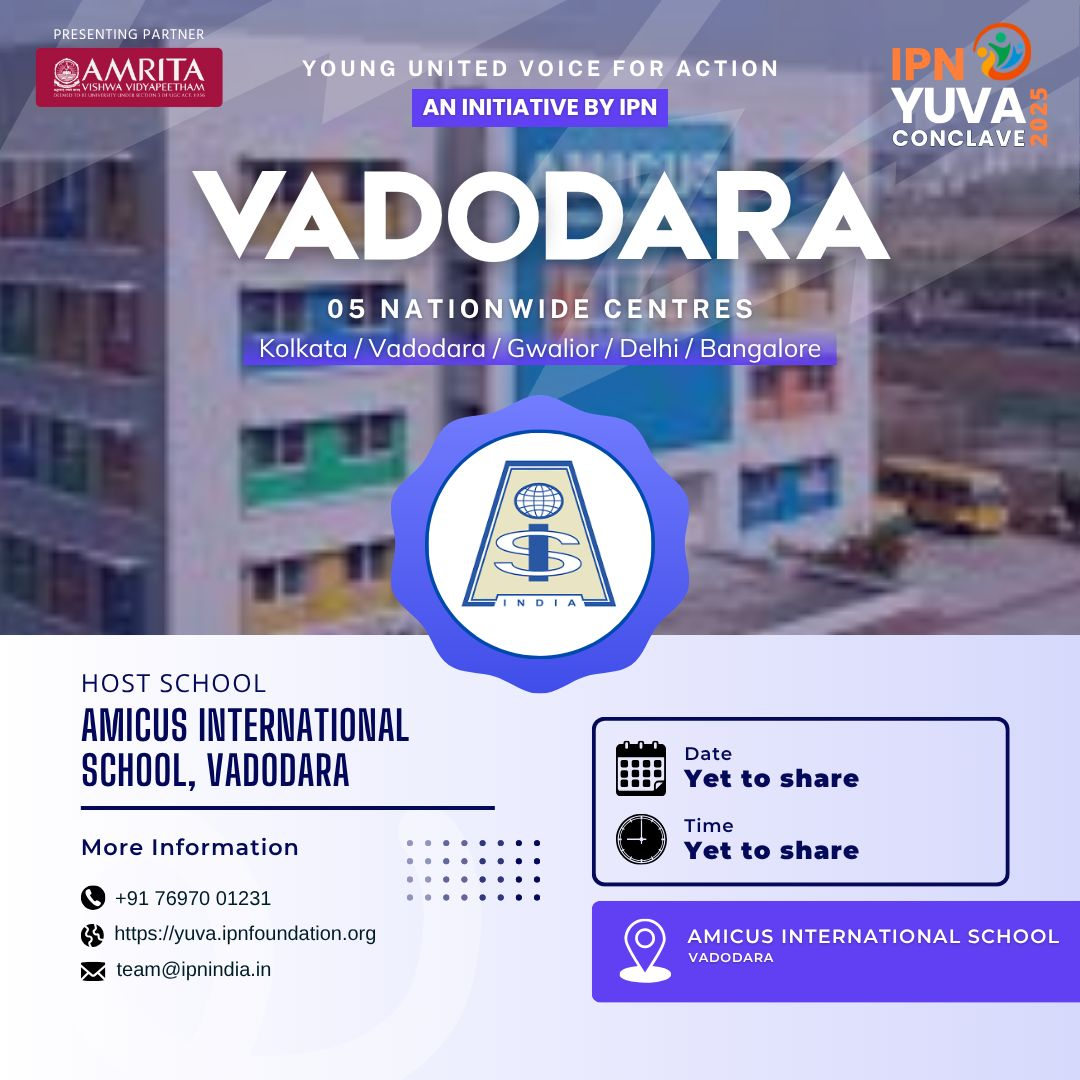
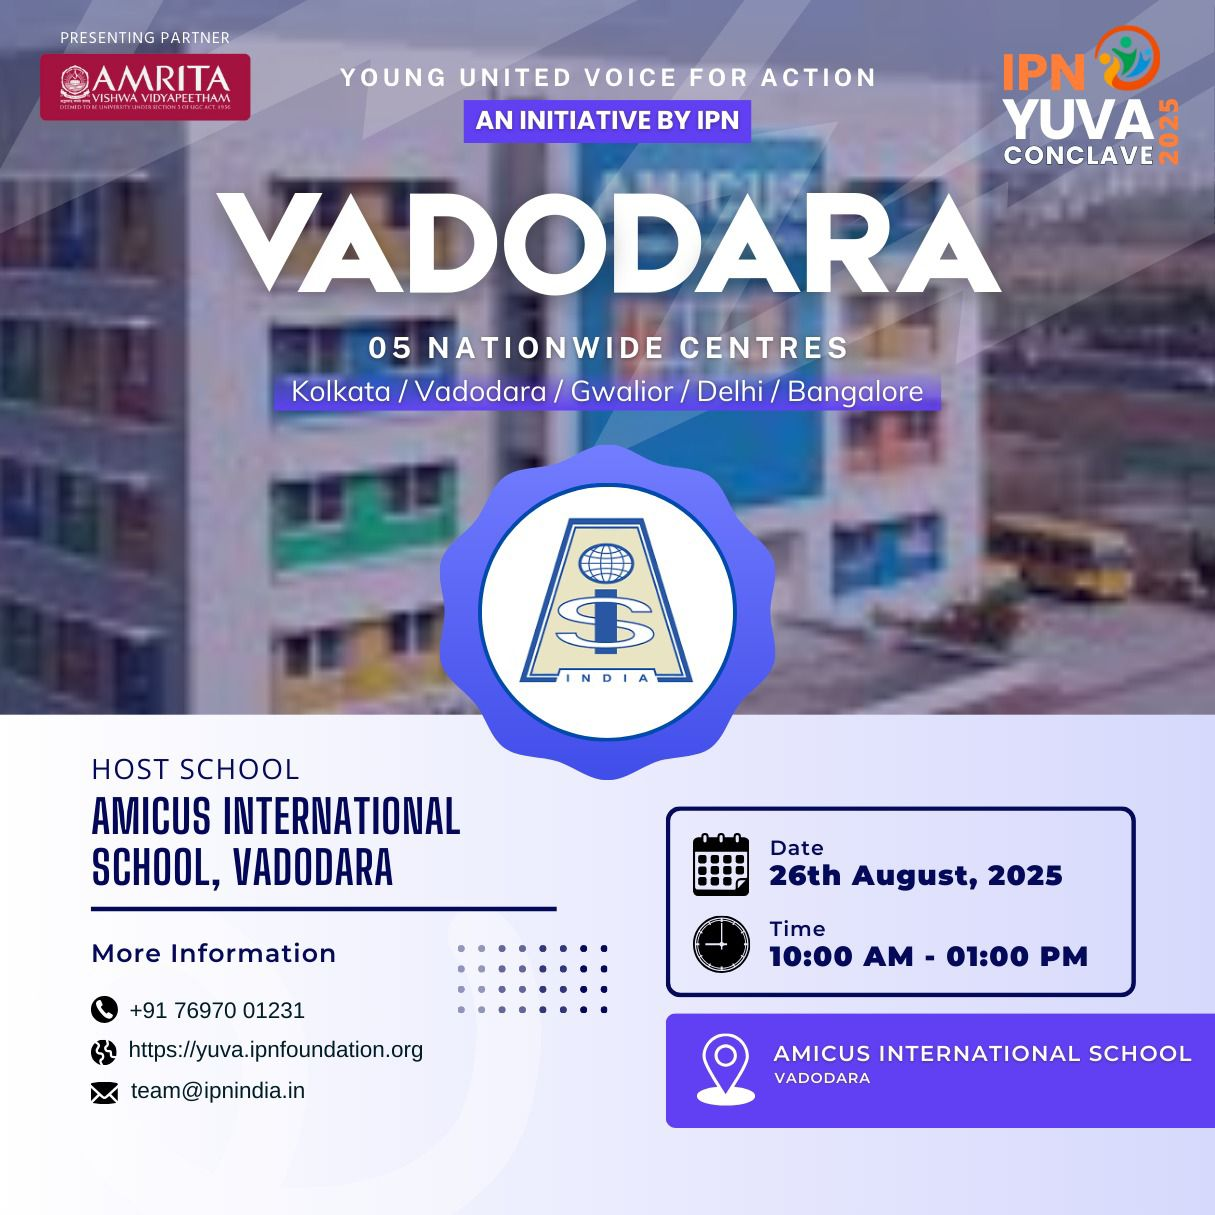
AA

diff --git a/hosts_school.html b/hosts_school.html
@@ -260,16 +260,6 @@
     <section class="host-grid-section">
         <div class="container">
             <div class="host-grid">
-                <div class="host-card gwalior">
-                    <img style="height: 1080px !important; width: 1080px !important;" src="host_school/gwalior.jpeg" alt="Gwalior Host School">
-                    <div class="host-badge">Scheduled</div>
-                    <div class="host-city-row">
-                        <span class="host-city-icon"><i class="fas fa-map-marker-alt"></i></span>
-                        <span class="host-city">Gwalior</span>
-                    </div>
-                    <div class="host-school">LITTLE ANGEL HIGH SCHOOL, GWALIOR</div>
-                    <div class="host-date"><i class="fas fa-calendar-alt"></i> 28 August 2025</div>
-                </div>
                 <div class="host-card kolkata">
                     <img src="host_school/kolkata.jpeg" alt="Kolkata Host School">
                     <div class="host-badge">Scheduled</div>
@@ -278,7 +268,7 @@
                         <span class="host-city">Kolkata</span>
                     </div>
                     <div class="host-school">SPK Jain Futuristic Academy, Kadampukur, WB</div>
-                    <div class="host-date"><i class="fas fa-calendar-alt"></i> 12 August 2025</div>
+                    <div class="host-date"><i class="fas fa-calendar-alt"></i> 12th August 2025</div>
                 </div>
                 <div class="host-card vadodara">
                     <img src="host_school/vadodara.jpeg" alt="Vadodara Host School">
@@ -288,8 +278,19 @@
                         <span class="host-city">Vadodara</span>
                     </div>
                     <div class="host-school">Amicus International School, Vadodara</div>
-                    <div class="host-date"><i class="fas fa-calendar-alt"></i> Date: Yet to be shared</div>
+                    <div class="host-date"><i class="fas fa-calendar-alt"></i> 26th August 2025</div>
                 </div>
+                <div class="host-card gwalior">
+                    <img style="height: 1080px !important; width: 1080px !important;" src="host_school/gwalior.jpeg" alt="Gwalior Host School">
+                    <div class="host-badge">Scheduled</div>
+                    <div class="host-city-row">
+                        <span class="host-city-icon"><i class="fas fa-map-marker-alt"></i></span>
+                        <span class="host-city">Gwalior</span>
+                    </div>
+                    <div class="host-school">LITTLE ANGEL HIGH SCHOOL, GWALIOR</div>
+                    <div class="host-date"><i class="fas fa-calendar-alt"></i> 28th August 2025</div>
+                </div>
+                
                 <div class="host-card noida">
                     <img src="host_school/noida.jpeg" alt="Vadodara Host School">
                     <div class="host-badge">Scheduled</div>
